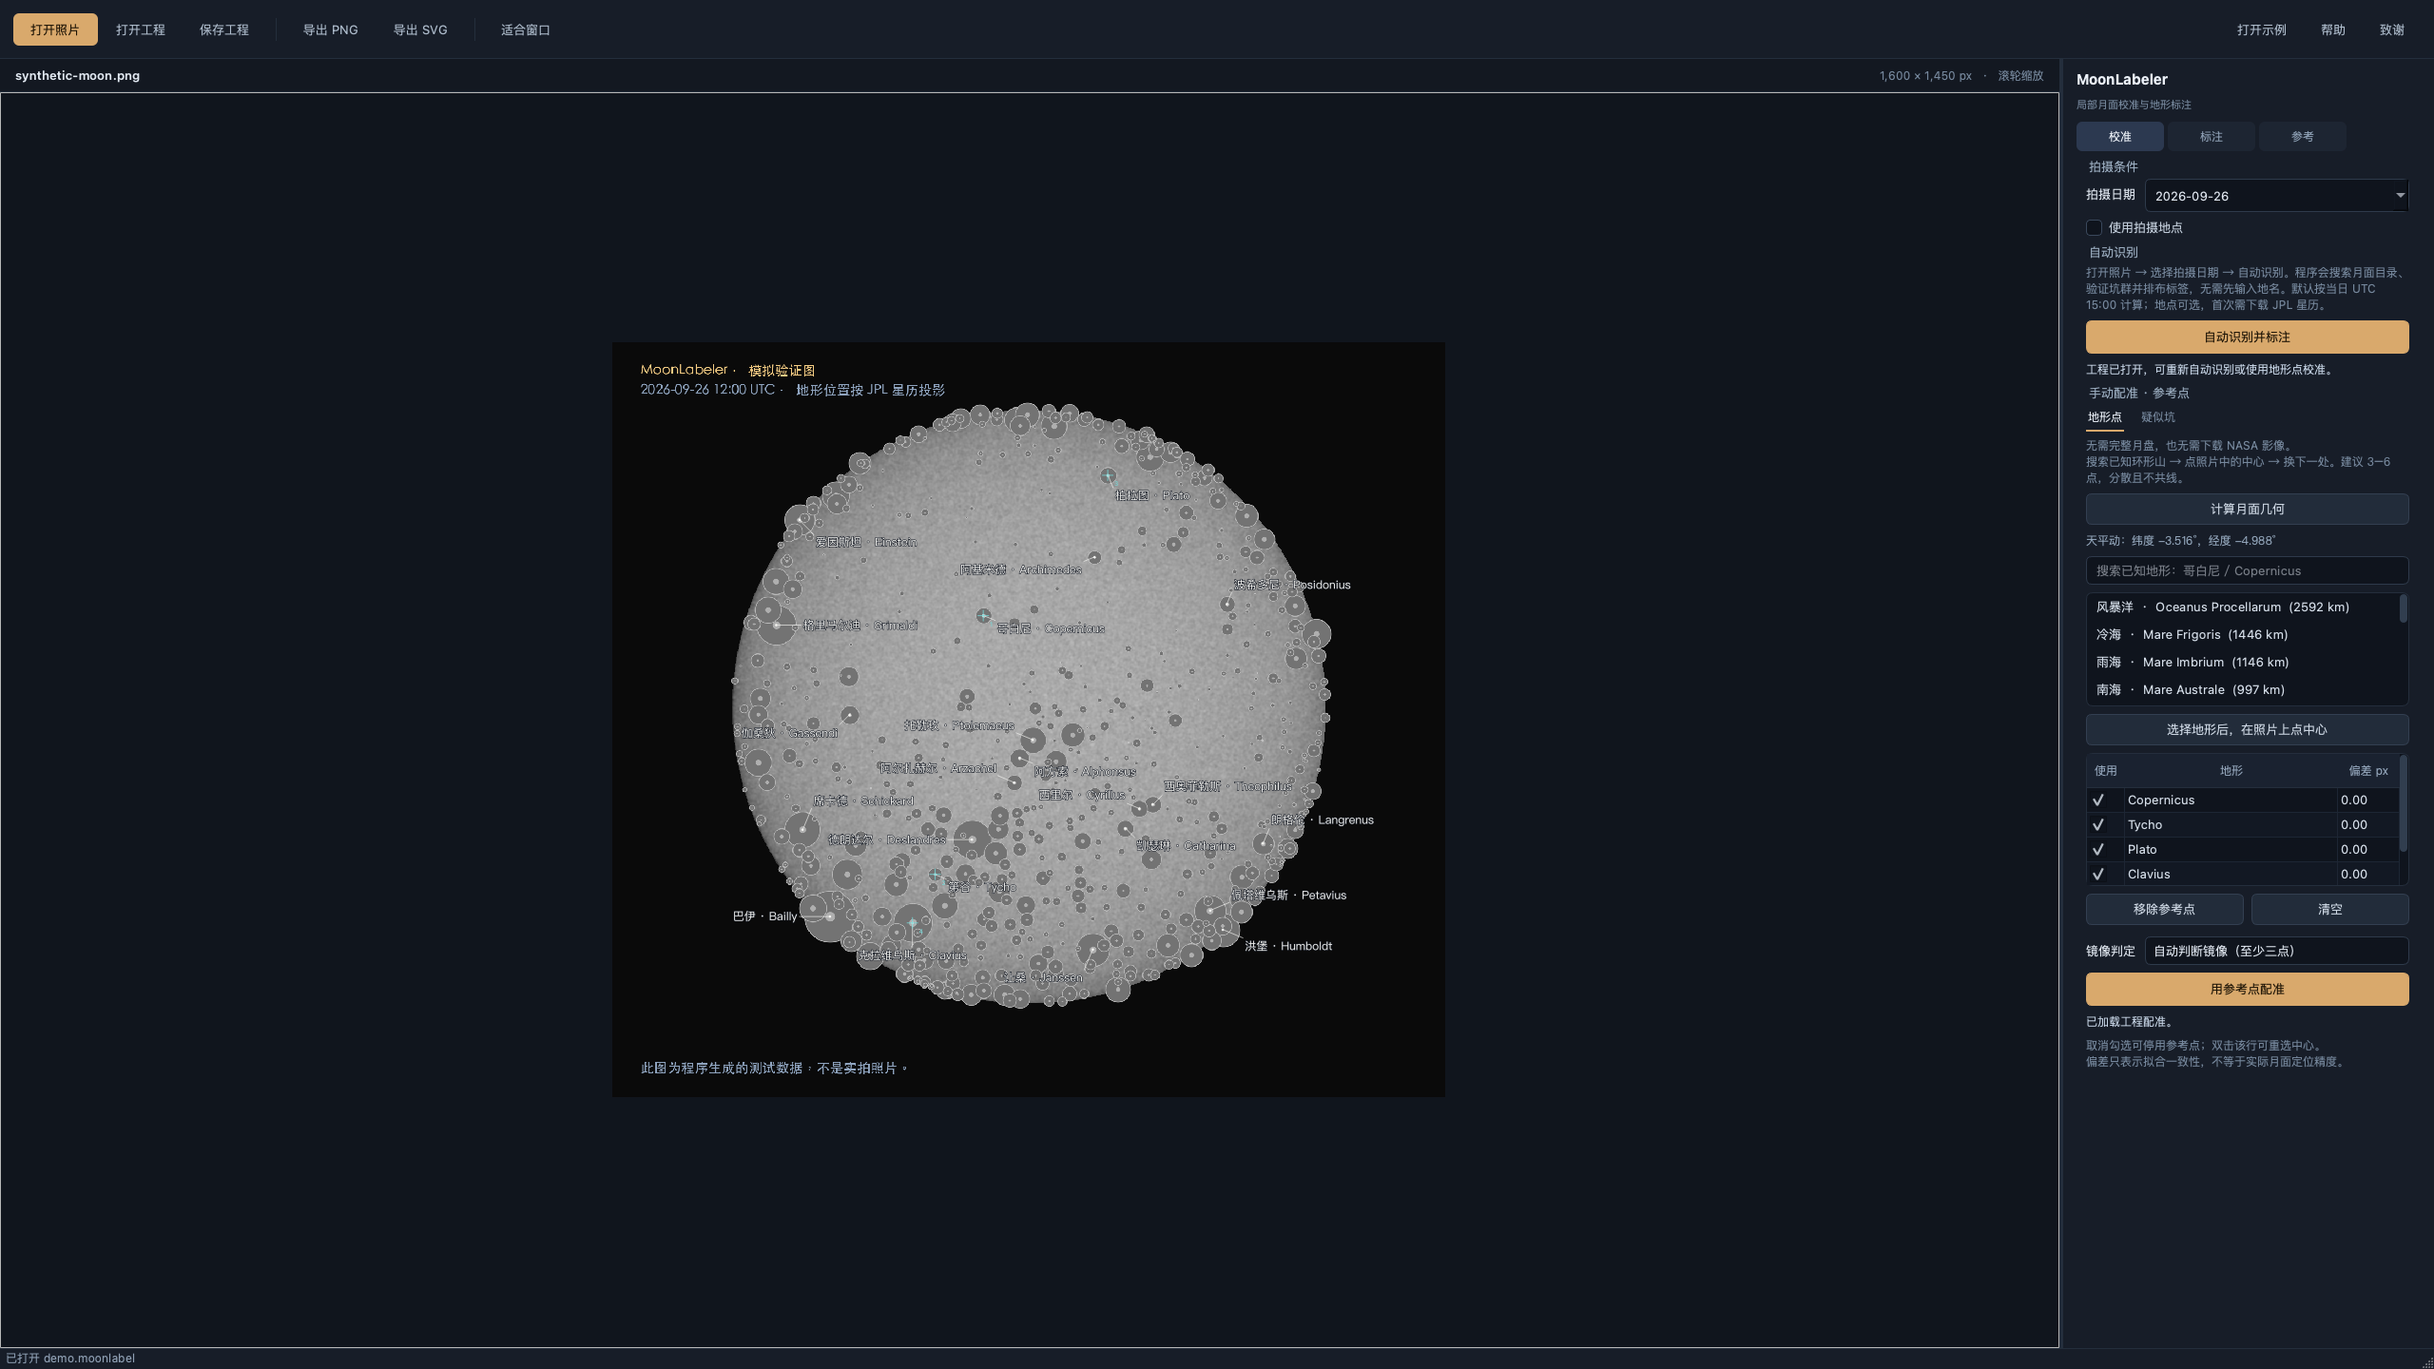
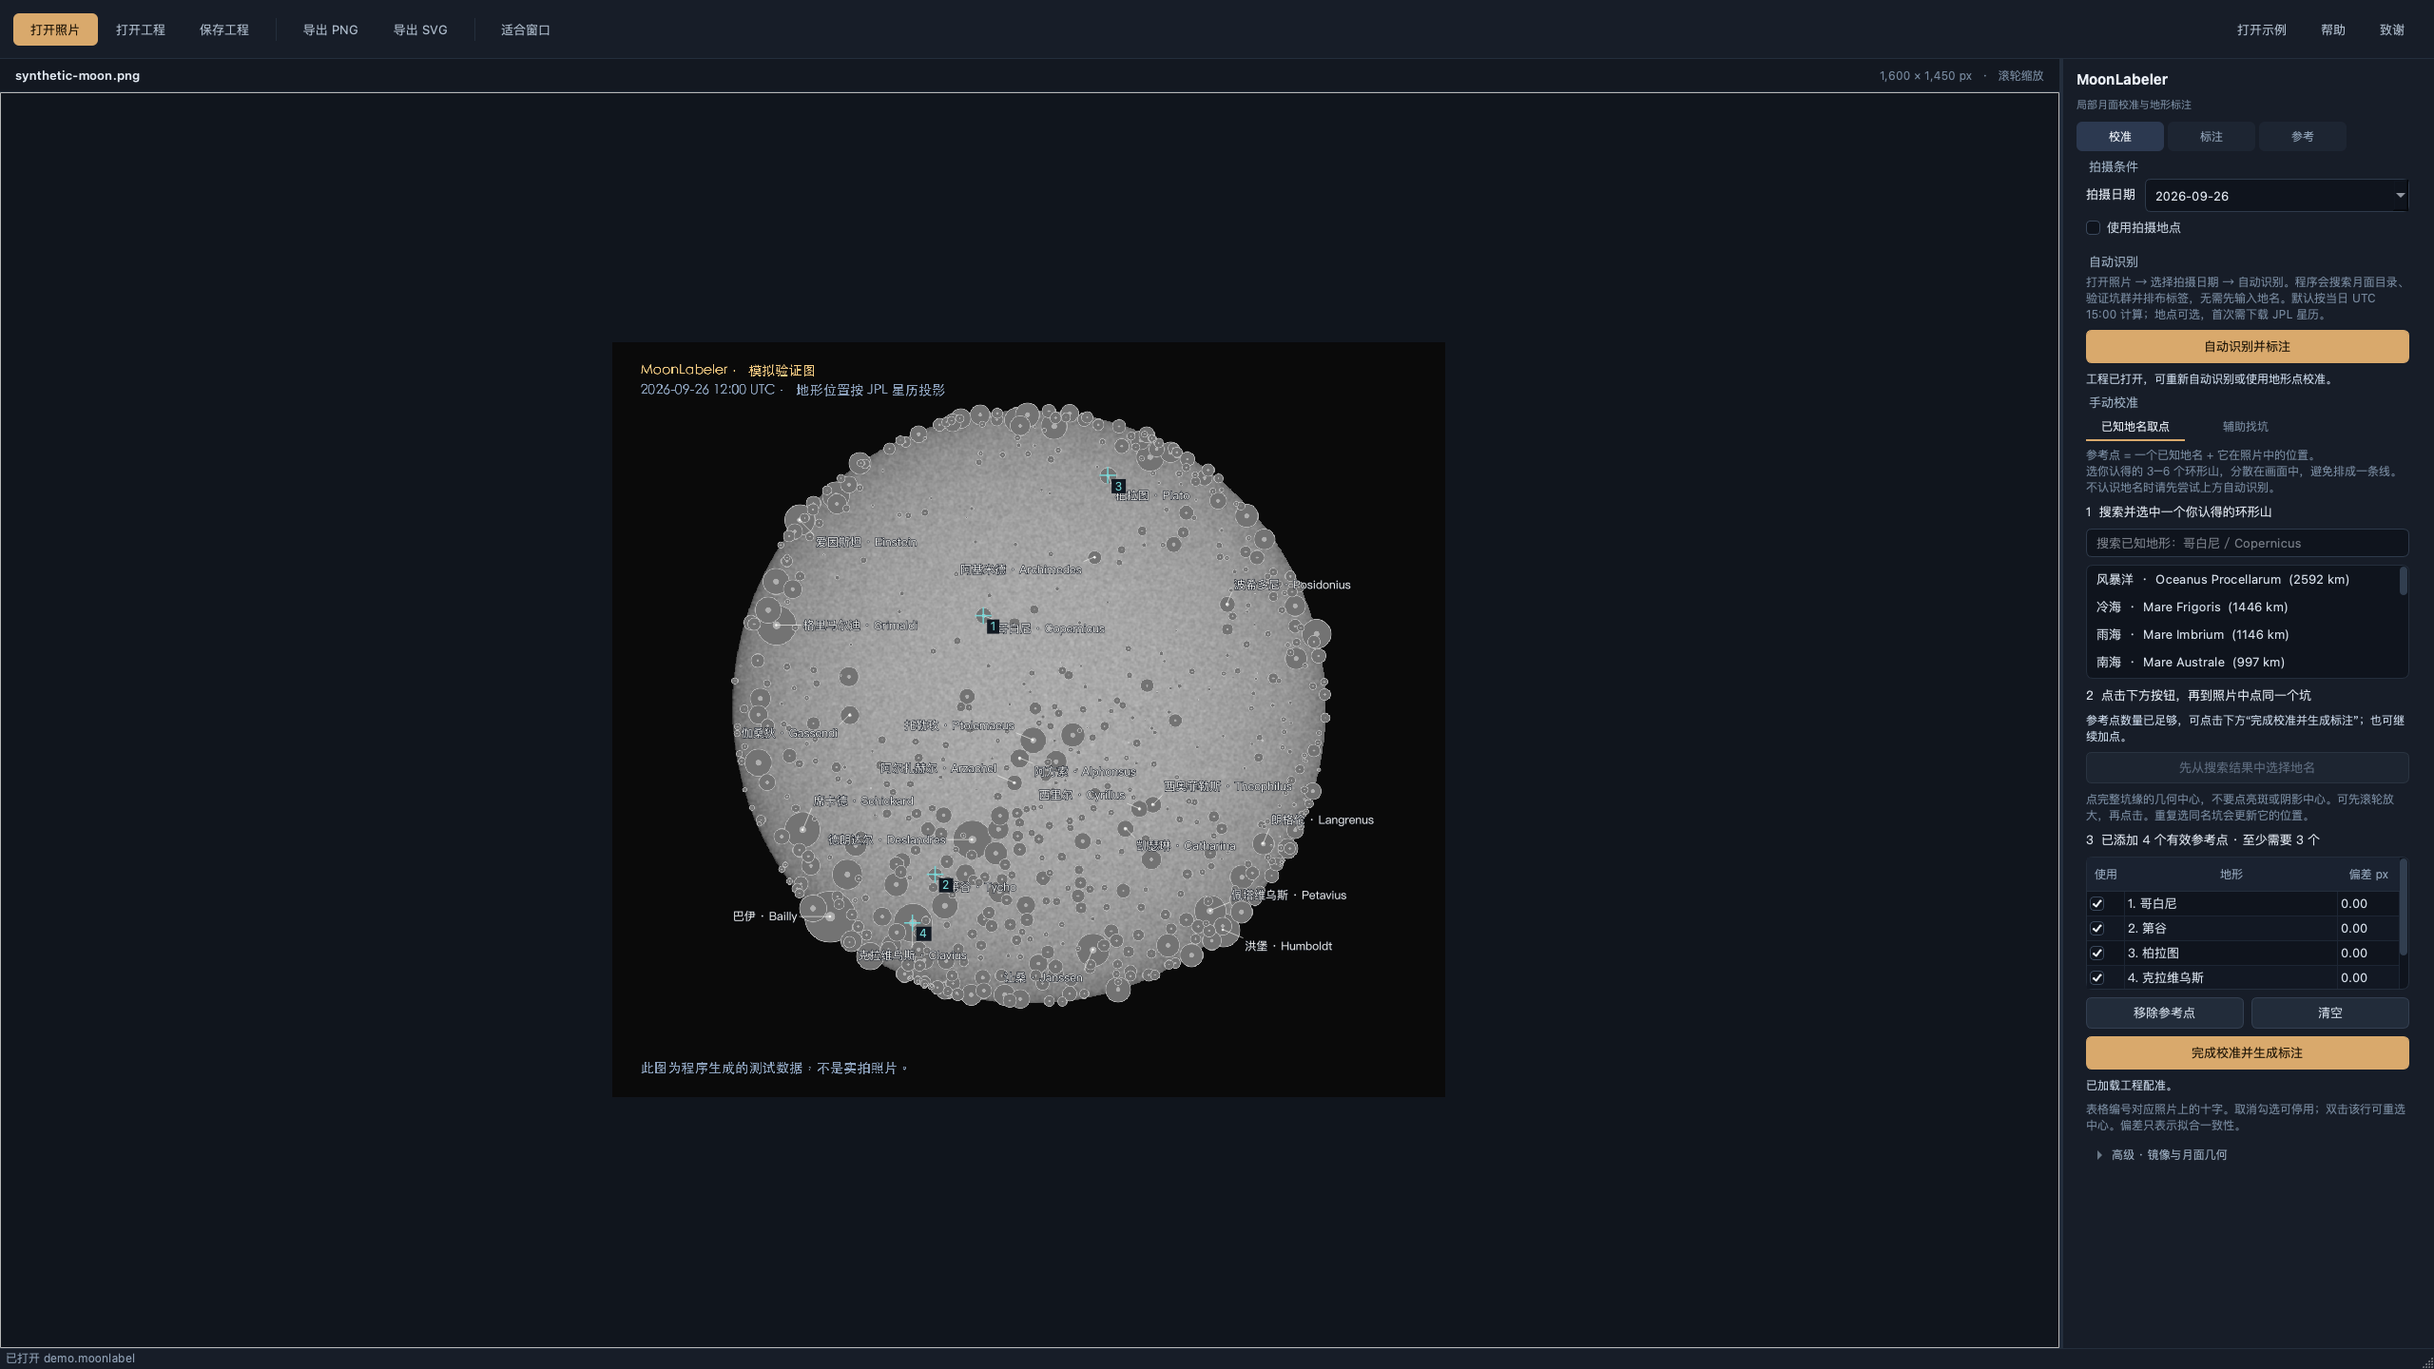
Restore exact UTC time in collapsed settings and integrate checkbox styling

Changed region(s): [[0.8438, 0.1562, 1.0, 0.8438]]

diff --git a/tests/test_gui.py b/tests/test_gui.py
@@ -24,13 +24,15 @@ def test_photo_workflow_has_automatic_name_recognition():
     assert buttons, '照片流程缺少自动地名识别入口，用户仍需逐个输入地名。'
 
 
-def test_capture_date_hides_time_and_uses_utc_1500():
+def test_capture_time_defaults_collapsed_and_preserves_explicit_time(tmp_path):
     from datetime import timezone
-    from PySide6.QtCore import QDate
+    from PySide6.QtCore import QDate, QTime
     application = QApplication.instance() or QApplication([])
     window = MainWindow()
     try:
         assert window.date.displayFormat() == 'yyyy-MM-dd'
+        assert not window.capture_time_toggle.isChecked()
+        assert window.capture_time_block.isHidden()
         assert (window.utc().hour, window.utc().minute, window.utc().second) == (15, 0, 0)
         window.date.setDate(QDate(2025, 9, 14))
         assert window.utc().isoformat() == '2025-09-14T15:00:00+00:00'
@@ -39,9 +41,46 @@ def test_capture_date_hides_time_and_uses_utc_1500():
         window.project.utc = '2025-09-13T12:34:56+00:00'
         window.sync_controls()
         assert window.utc().isoformat() == '2025-09-13T12:34:56+00:00'
-        # Selecting a new date resets the hidden time to the stated default.
+        assert window.capture_time.time() == QTime(12, 34, 56)
+        assert '12:34:56' in window.capture_time_toggle.text()
+        # Calendar changes retain precise times; only the explicit reset resets.
         window.date.setDate(QDate(2025, 9, 15))
+        assert window.utc().isoformat() == '2025-09-15T12:34:56+00:00'
+        window.capture_time_toggle.click()
+        assert not window.capture_time_block.isHidden()
+        window.capture_time.setTime(QTime(23, 59, 42))
+        assert window.utc().isoformat() == '2025-09-15T23:59:42+00:00'
+        assert window.project.utc == window.utc().isoformat()
+        window.capture_time_toggle.click()
+        assert window.capture_time_block.isHidden()
+        assert window.utc().hour == 23
+        saved = tmp_path / 'time.moonlabel'
+        window.project.save(saved)
+        assert Project.load(saved).utc == '2025-09-15T23:59:42+00:00'
+        window.reset_capture_time.click()
         assert window.utc().isoformat() == '2025-09-15T15:00:00+00:00'
+        assert window.capture_time.time() == QTime(15, 0)
+    finally:
+        window.dirty = False
+        window.close()
+
+
+def test_time_edit_invalidates_registration_but_folding_does_not():
+    from PySide6.QtCore import QTime
+    application = QApplication.instance() or QApplication([])
+    window = MainWindow()
+    try:
+        window.open_example()
+        matrix = window.project.matrix.copy()
+        utc = window.project.utc
+        window.capture_time_toggle.click()
+        window.capture_time_toggle.click()
+        assert np.array_equal(window.project.matrix, matrix)
+        assert window.project.utc == utc and not window.dirty
+        window.capture_time.setTime(QTime(9, 25, 17))
+        assert window.project.utc.endswith('T09:25:17+00:00')
+        assert window.project.geometry is None and window.project.matrix is None
+        assert window.dirty
     finally:
         window.dirty = False
         window.close()

diff --git a/moonlabeler/app.py b/moonlabeler/app.py
@@ -584,14 +584,14 @@ class MainWindow(WindowUiMixin, QMainWindow):
         self.statusBar().showMessage("操作未完成。")
         QMessageBox.warning(self, "MoonLabeler", text)
 
-    def capture_date_changed(self, *args):
-        if self.rebuilding:
-            return
-        # Calendar edits use the documented default. Project loading remains
-        # lossless, including older projects calibrated at a precise time.
-        blocked = self.date.blockSignals(True)
-        self.date.setTime(QTime(15, 0))
-        self.date.blockSignals(blocked)
+    def sync_capture_time(self, *args):
+        # date remains the single timestamp source for geometry and projects.
+        # The disclosure only changes visibility, never the selected time.
+        time = self.date.time()
+        blocked = self.capture_time.blockSignals(True)
+        self.capture_time.setTime(time)
+        self.capture_time.blockSignals(blocked)
+        self.capture_time_toggle.setText(f"具体时间 · UTC {time.toString('HH:mm:ss')}")
 
     def utc(self):
         # Treat displayed components as UTC, independent of host timezone.
@@ -1536,7 +1536,7 @@ class MainWindow(WindowUiMixin, QMainWindow):
 
     def help_dialog(self):
         QMessageBox.information(self, "使用 MoonLabeler",
-            "1. 打开照片，选择拍摄日期。默认按当日 UTC 15:00 计算；旧工程保留已记录的时间。准确校准建议填写拍摄地点。\n\n"
+            "1. 打开照片，选择拍摄日期。默认 UTC 15:00；展开“具体时间”可精确到秒。收起设置或更换日期不会重置时间，旧工程保留原时间。北京时间请换算为 UTC，注意日期跨天。准确校准建议填写拍摄地点。\n\n"
             "2. 点击“自动识别并标注”：检测坑缘、搜索月面地名目录并用其他坑验证，成功后直接生成标签。无需先计算几何或输入地名。失败时核对日期，或改用地形点校准。\n\n"
             "手动校准：参考点就是“已知地名 + 照片中的位置”。在“已知地名取点”中搜索并选中一个你认得的坑，点“在照片中标记”，再点照片中同一个坑的坑缘中心。重复添加 3–6 处分散、不共线的点，再点“完成校准并生成标注”；月面几何会自动计算。取点时 Esc 取消，双击参考点表格可重选中心。\n\n"
             "“校准 → 疑似坑”可先检测候选中心；调节原图像素半径和灵敏度，或只检测当前视野。选中候选、搜索并确认地名后加入参考点。它不会自动识别名称。\n\n"

diff --git a/moonlabeler/ui/window.py b/moonlabeler/ui/window.py
@@ -22,7 +22,7 @@ from PySide6.QtGui import QAction, QKeySequence
 from PySide6.QtWidgets import (
     QWidget, QVBoxLayout, QHBoxLayout, QFormLayout, QGridLayout,
     QPushButton, QToolButton, QLabel, QLineEdit, QComboBox, QSpinBox,
-    QDoubleSpinBox, QCheckBox, QDateTimeEdit, QGroupBox, QScrollArea,
+    QDoubleSpinBox, QCheckBox, QDateTimeEdit, QTimeEdit, QGroupBox, QScrollArea,
     QSplitter, QTableWidget, QHeaderView, QListWidget, QAbstractItemView,
     QTabWidget, QSizePolicy,
 )
@@ -193,11 +193,25 @@ class WindowUiMixin:
         self.date.setDateTime(QDateTime.currentDateTimeUtc())
         self.date.setDisplayFormat("yyyy-MM-dd")
         self.date.setTime(QTime(15, 0))
-        self.date.setToolTip("选择拍摄日期，默认按当日 UTC 15:00 计算。打开旧工程时保留其原始时间。")
+        self.date.setToolTip("默认 UTC 15:00；展开“具体时间”可修改。修改日期或收起设置不会重置已选时间。")
         self.date.setCalendarPopup(True)
-        self.date.dateChanged.connect(self.capture_date_changed)
-        self.date.dateTimeChanged.connect(self.geometry_changed)
         form.addRow("拍摄日期", self.date)
+        self.capture_time_toggle, self.capture_time_block, time_box = self.ui_collapsible("具体时间 · UTC 15:00:00")
+        self.capture_time = QTimeEdit(QTime(15, 0))
+        self.capture_time.setDisplayFormat("HH:mm:ss")
+        self.capture_time.setToolTip("输入 UTC 时间；北京时间需要减去 8 小时，注意日期跨天。")
+        time_form = self.ui_form()
+        time_form.addRow("时间（UTC）", self.capture_time)
+        time_box.addLayout(time_form)
+        self.reset_capture_time = QPushButton("恢复默认 15:00:00 UTC")
+        self.reset_capture_time.clicked.connect(lambda: self.date.setTime(QTime(15, 0)))
+        time_box.addWidget(self.reset_capture_time)
+        time_box.addWidget(self.ui_note("收起后仍使用所设时间。北京时间请换算为 UTC，注意日期跨天。"))
+        form.addRow(self.capture_time_toggle)
+        form.addRow(self.capture_time_block)
+        self.capture_time.timeChanged.connect(self.date.setTime)
+        self.date.dateTimeChanged.connect(self.sync_capture_time)
+        self.date.dateTimeChanged.connect(self.geometry_changed)
         self.topocentric = QCheckBox("使用拍摄地点")
         self.topocentric.toggled.connect(self.geometry_changed)
         form.addRow(self.topocentric)

diff --git a/moonlabeler/ui/theme.py b/moonlabeler/ui/theme.py
@@ -7,7 +7,14 @@ sits on the near-black left side, the inspector panel on the right recedes
 into a calm dark blue-grey. A single warm "moon dust" accent is reserved for
 primary actions and focus; sections are flat (hairlines and spacing instead
 of boxed frames) so the sidebar reads as text hierarchy, not a stack of boxes.
+Checkboxes and item-view check indicators are plain: an empty bordered box
+when unchecked, a light check mark inside the same box when checked
+(assets/check_dark.png, drawn programmatically).
 """
+from pathlib import Path
+
+ASSETS = Path(__file__).resolve().parent / "assets"
+CHECK_MARK = (ASSETS / "check_dark.png").as_posix()
 
 BG = "#131821"          # window chrome / toolbar / status bar
 PANEL = "#171d28"       # inspector panel
@@ -89,11 +96,16 @@ QComboBox QAbstractItemView {{ background: #1a212d; border: 1px solid {LINE_HI};
 
 QCheckBox {{ spacing: 7px; color: #c3cedb; }}
 QCheckBox:disabled {{ color: {DISABLED_TEXT}; }}
-QCheckBox::indicator {{ width: 13px; height: 13px; border: 1px solid #3a485c;
-                       border-radius: 4px; background: {SURFACE}; }}
-QCheckBox::indicator:hover {{ border-color: #4d6079; }}
-QCheckBox::indicator:checked {{ border: 3px solid {ACCENT}; background: {SURFACE}; }}
-QCheckBox::indicator:disabled {{ border-color: #333f4d; background: #151b25; }}
+/* One plain check style everywhere: form checkboxes, label list, anchor table. */
+QCheckBox::indicator, QListView::indicator, QTableView::indicator {{
+    width: 13px; height: 13px; border: 1px solid #3a485c;
+    border-radius: 4px; background: {SURFACE}; }}
+QCheckBox::indicator:hover, QListView::indicator:hover,
+QTableView::indicator:hover {{ border-color: #4d6079; }}
+QCheckBox::indicator:checked, QListView::indicator:checked,
+QTableView::indicator:checked {{ image: url({CHECK_MARK}); }}
+QCheckBox::indicator:disabled, QListView::indicator:disabled,
+QTableView::indicator:disabled {{ border-color: #333f4d; background: #151b25; }}
 
 /* ---- lists and tables ----------------------------------------------------- */
 QListWidget, QTableWidget {{ background: {SURFACE}; border: 1px solid {LINE};

diff --git a/docs/ui/README.md b/docs/ui/README.md
@@ -69,12 +69,15 @@
 
 - 画布周围近黑（窗口底 `#131821`），检查器面板 `#171d28`；
 - 暖金 `#d9a96c` 仅用于：主按钮（自动识别/用参考点配准/重新生成标注/
-  检测疑似坑中心/确认地名/生成模拟图/打开照片）、复选框选中环、
-  子页签选中下划线；
+  检测疑似坑中心/确认地名/生成模拟图/打开照片）和子页签选中下划线；
+- **勾选控件统一为朴素样式**（用户定稿）：未选中＝空框，选中＝同一暗底框内
+  一个浅色对勾，无填充无边框变色（`assets/check_dark.png`，程序绘制的
+  本地图标）；`QCheckBox`、标签列表、参考点表共用同一套指示器；
 - 一级页签＝分段样式，二级页签＝下划线样式，层级一眼可辨；
 - 状态文字统一 12px 三档灰（`noteLabel`/`statusLabel`/`statusStrong`），
   由 objectName 挂接，不写内联样式；
-- 无新增依赖、无网络字体、无图标资源。
+- 无新增依赖、无网络字体；唯一本地资源为程序绘制的对勾图标
+  `assets/check_dark.png`。
 
 ## 5. 测试
 
@@ -111,3 +114,9 @@
 - 新增 `tests/test_manual_workflow.py`：实际控件取三点后延迟计算几何、生成标注；取消/换名/重选；下载失败保留参考点。
 
 `native-*.png` 为 macOS Cocoa 真机检查截图，`preview-*.png` 为 Zcode 原始 offscreen 交付截图。均只使用合成示例。仓库首页截图 `../moonlabeler.png` 已更新为整合后的原生界面。
+
+## 9. 具体时间（默认折叠）
+
+拍摄日期下显示“具体时间 · UTC HH:mm:ss”；展开后可精确到秒并恢复默认 15:00:00。收起只改变显示，更换日期也保留时间。旧工程加载会同步显示精确时间；实际修改才会使配准失效。
+
+已接入 Zcode 后续的统一复选框样式，并将本地对勾图标列入安装资源。

diff --git a/README.zh-CN.md b/README.zh-CN.md
@@ -20,7 +20,7 @@ cd MoonLabeler
 
 ## 自动识别并标注
 
-1. 打开照片，选择拍摄日期，默认按当日 UTC 15:00 计算。地点可选；不填使用地心视角。旧工程加载时保留原始精确时间。默认时间便于操作，不能保证极区高倍照片的精确投影。
+1. 打开照片，选择拍摄日期，默认按当日 UTC 15:00 计算。“具体时间”默认折叠，展开可设置 UTC 时分秒；收起和更换日期保留已选时间，恢复默认按钮可重置到 15:00。北京时间需换算为 UTC，注意跨天。地点可选；不填使用地心视角。旧工程加载时保留原始精确时间。默认时间便于操作，不能保证极区高倍照片的精确投影。
 2. 直接点击 **“自动识别并标注”**。无需先点“计算月面几何”，也无需输入区域、地名、比例、旋转或镜像状态。
 3. 成功后会跳到“标注”页。纹理配准显示图像对应点数量；坑群配准显示匹配地名，并将这些地形加入“校准 → 地形点”。标签由已配准的月面目录投影得到，并非逐个从照片检测。整月盘优先显示命名环形山和月海，避免长月溪挤掉主要环形山。
 4. 拖动文字调整位置，保存工程，导出 PNG / SVG。无法通过验证时不会采用猜测地名，也不会覆盖已有配准。
